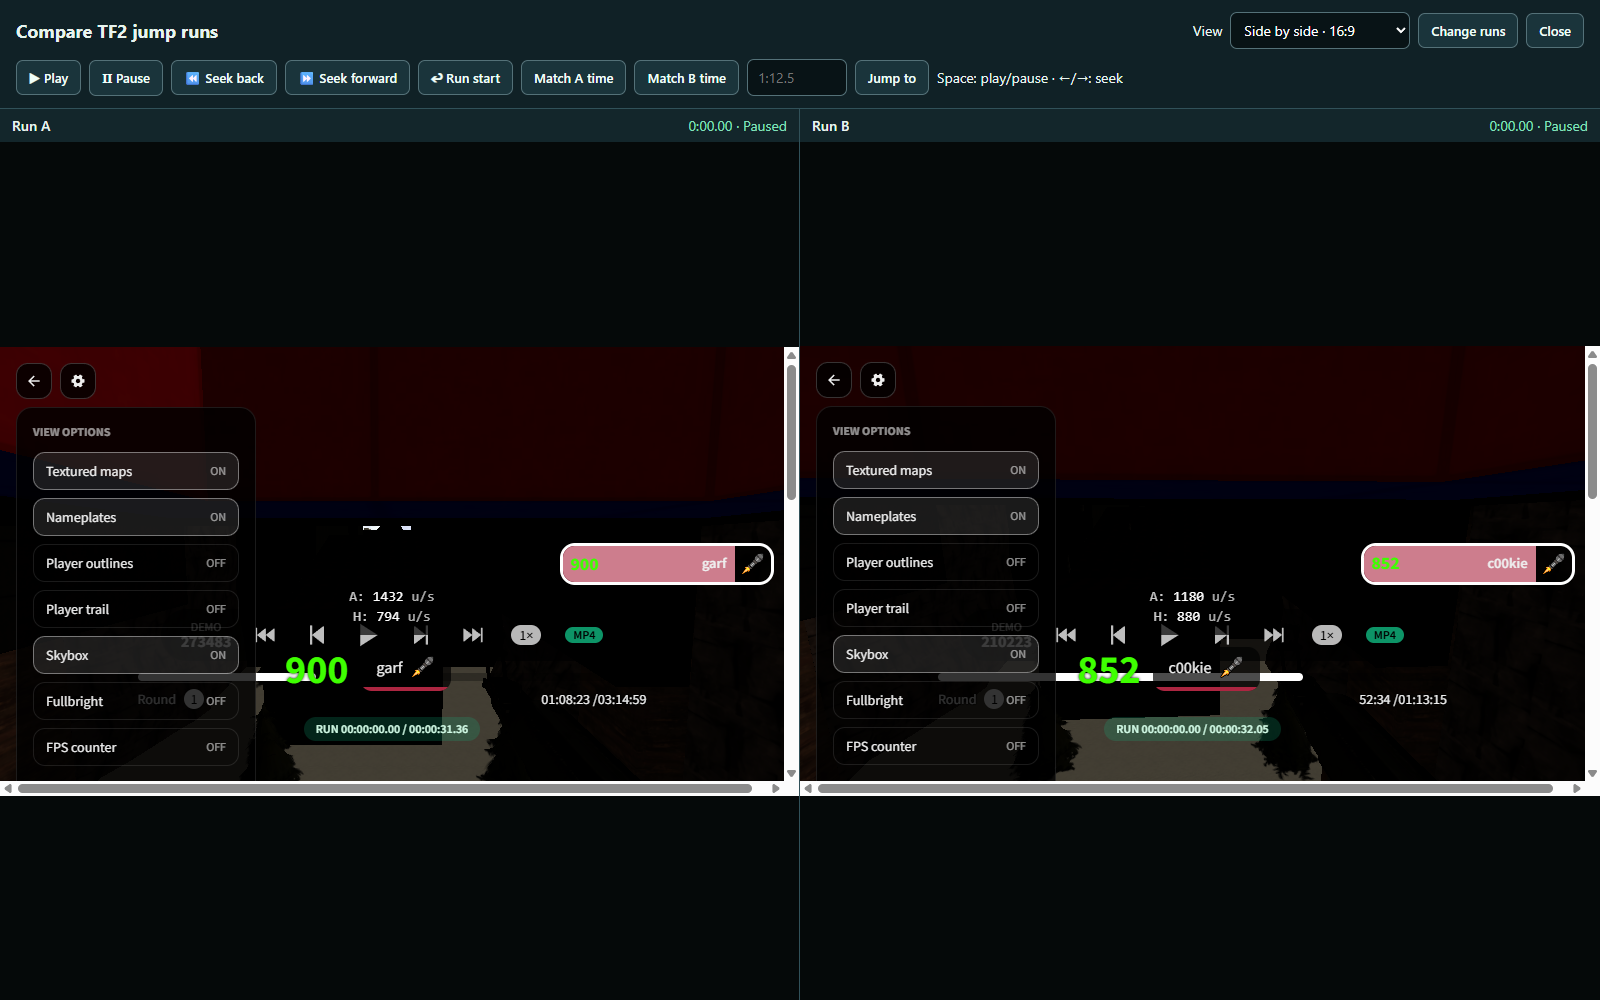
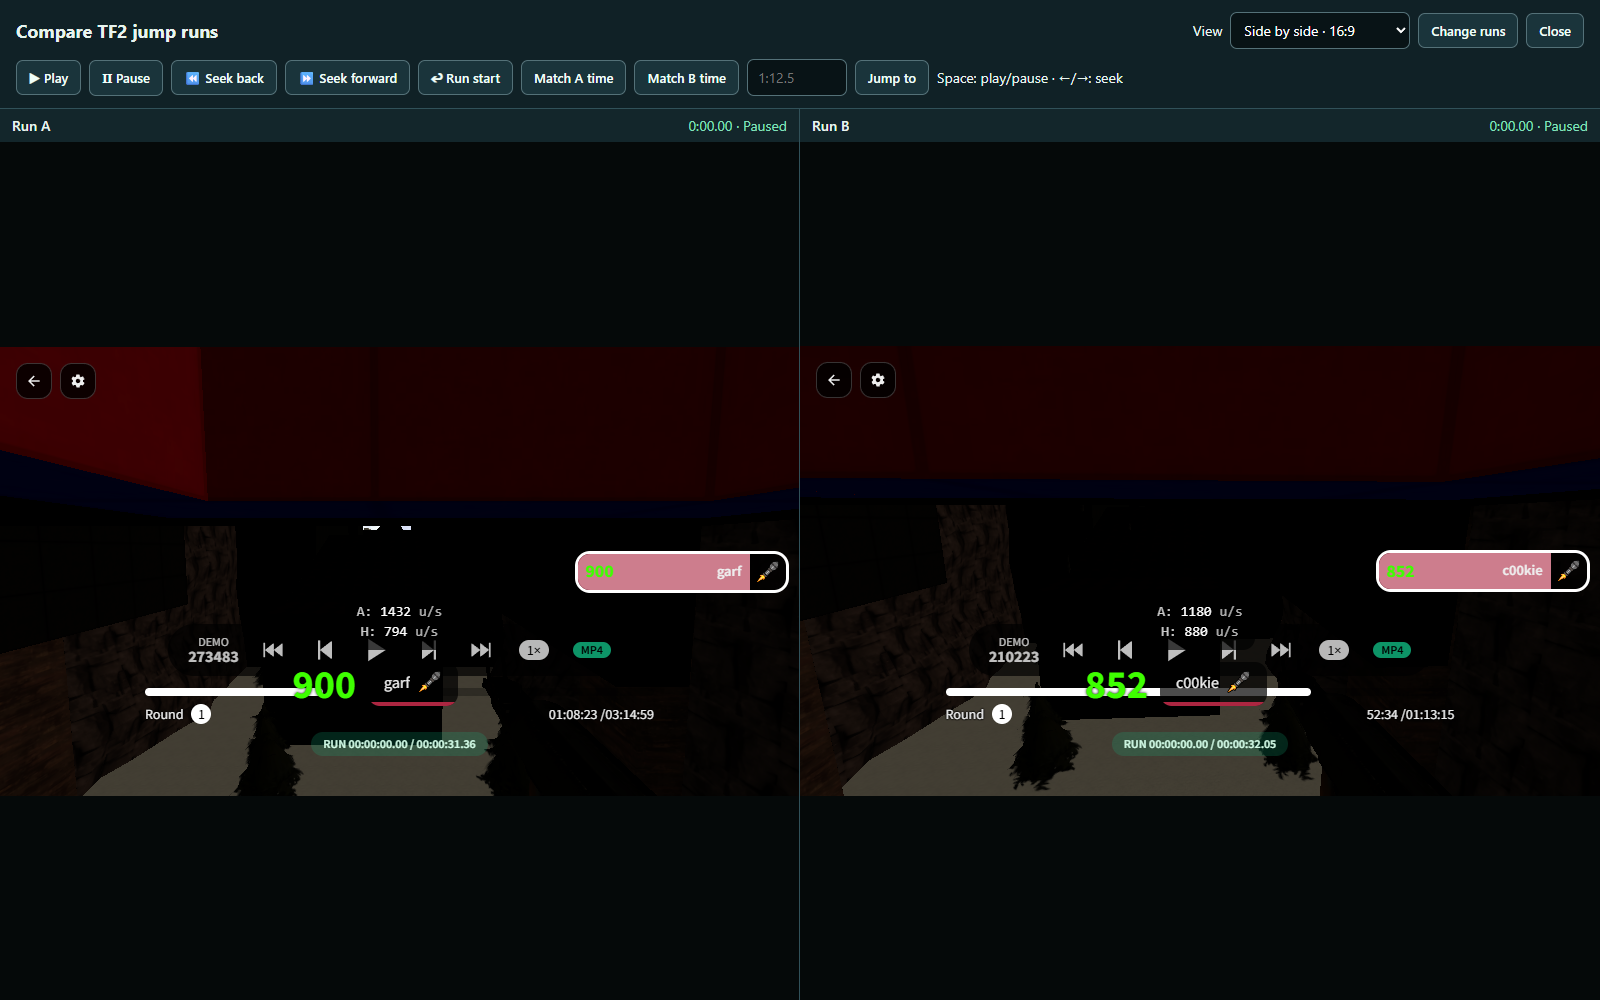
Collapse replay settings panels on load

diff --git a/compare.js b/compare.js
@@ -78,6 +78,29 @@
     return { doc, toolbar, tick, elapsed, playing };
   }
 
+  function collapseViewOptions(frame) {
+    let doc;
+    try { doc = frame.contentDocument; } catch { return false; }
+    if (!doc?.documentElement || doc.__tf2ViewOptionsCollapseStarted) return false;
+    doc.__tf2ViewOptionsCollapseStarted = true;
+
+    const closeWhenPresent = () => {
+      const toggle = doc.querySelector('button[aria-controls="view-options-panel"]');
+      if (!toggle) return false;
+      if (toggle.getAttribute('aria-expanded') === 'true') toggle.click();
+      return true;
+    };
+    if (closeWhenPresent()) return true;
+
+    const Observer = doc.defaultView?.MutationObserver || MutationObserver;
+    const observer = new Observer(() => {
+      if (closeWhenPresent()) observer.disconnect();
+    });
+    observer.observe(doc.documentElement, { childList: true, subtree: true });
+    setTimeout(() => observer.disconnect(), 10000);
+    return false;
+  }
+
   function waitForViewer(frame, label) {
     return new Promise((resolve, reject) => {
       const started = Date.now();
@@ -90,6 +113,7 @@
         const current = viewer(frame);
         if (current) {
           clearInterval(timer);
+          collapseViewOptions(frame);
           resolve(current);
         } else if (Date.now() - started > LOAD_TIMEOUT_MS) {
           clearInterval(timer);
@@ -107,6 +131,7 @@
       }, LOAD_TIMEOUT_MS);
       function onLoad() {
         clearTimeout(timeout);
+        collapseViewOptions(frame);
         waitForViewer(frame, label).then(resolve, reject);
       }
       frame.addEventListener('load', onLoad, { once: true });

diff --git a/README.md b/README.md
@@ -13,6 +13,7 @@ A small Chrome and Edge extension for watching [Tempus](https://tempus2.xyz/) TF
 - Match one viewer to the other if their times drift apart.
 - Jump both runs to a specific time such as `12.5` or `1:12.5`.
 - Choose side by side, ultrawide, stacked, or fill layouts.
+- Start each replay with its view-options panel collapsed while keeping the gear button available.
 - Use `Space` for play/pause and `←` / `→` to seek both demos.
 
 ## Install
